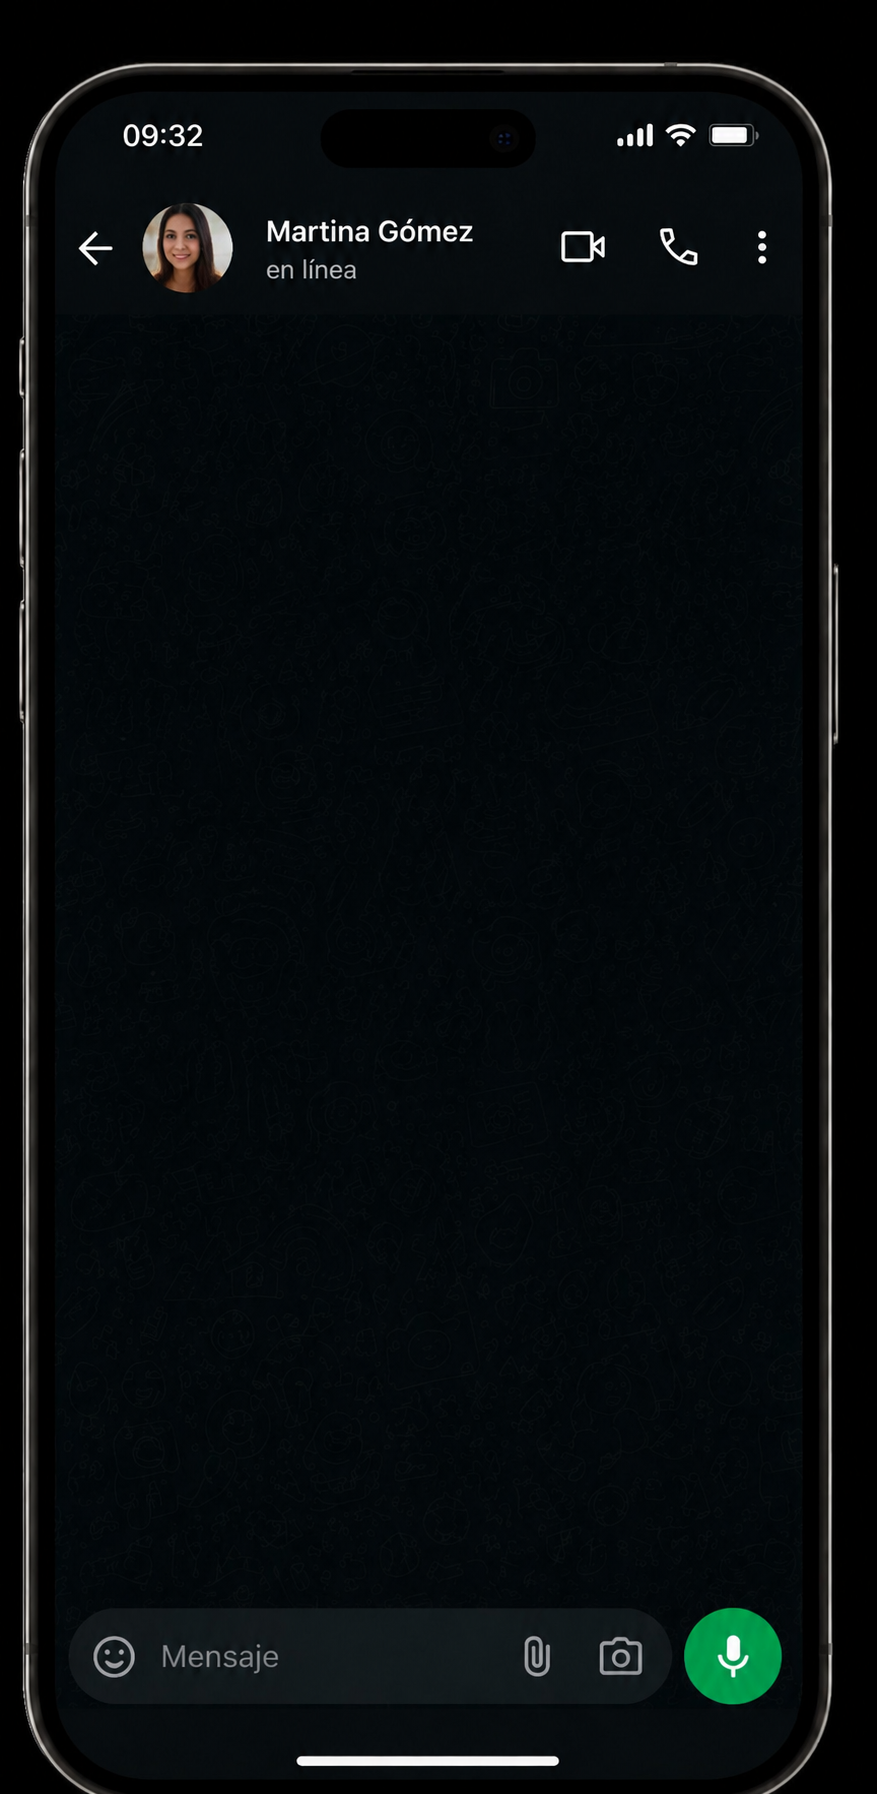
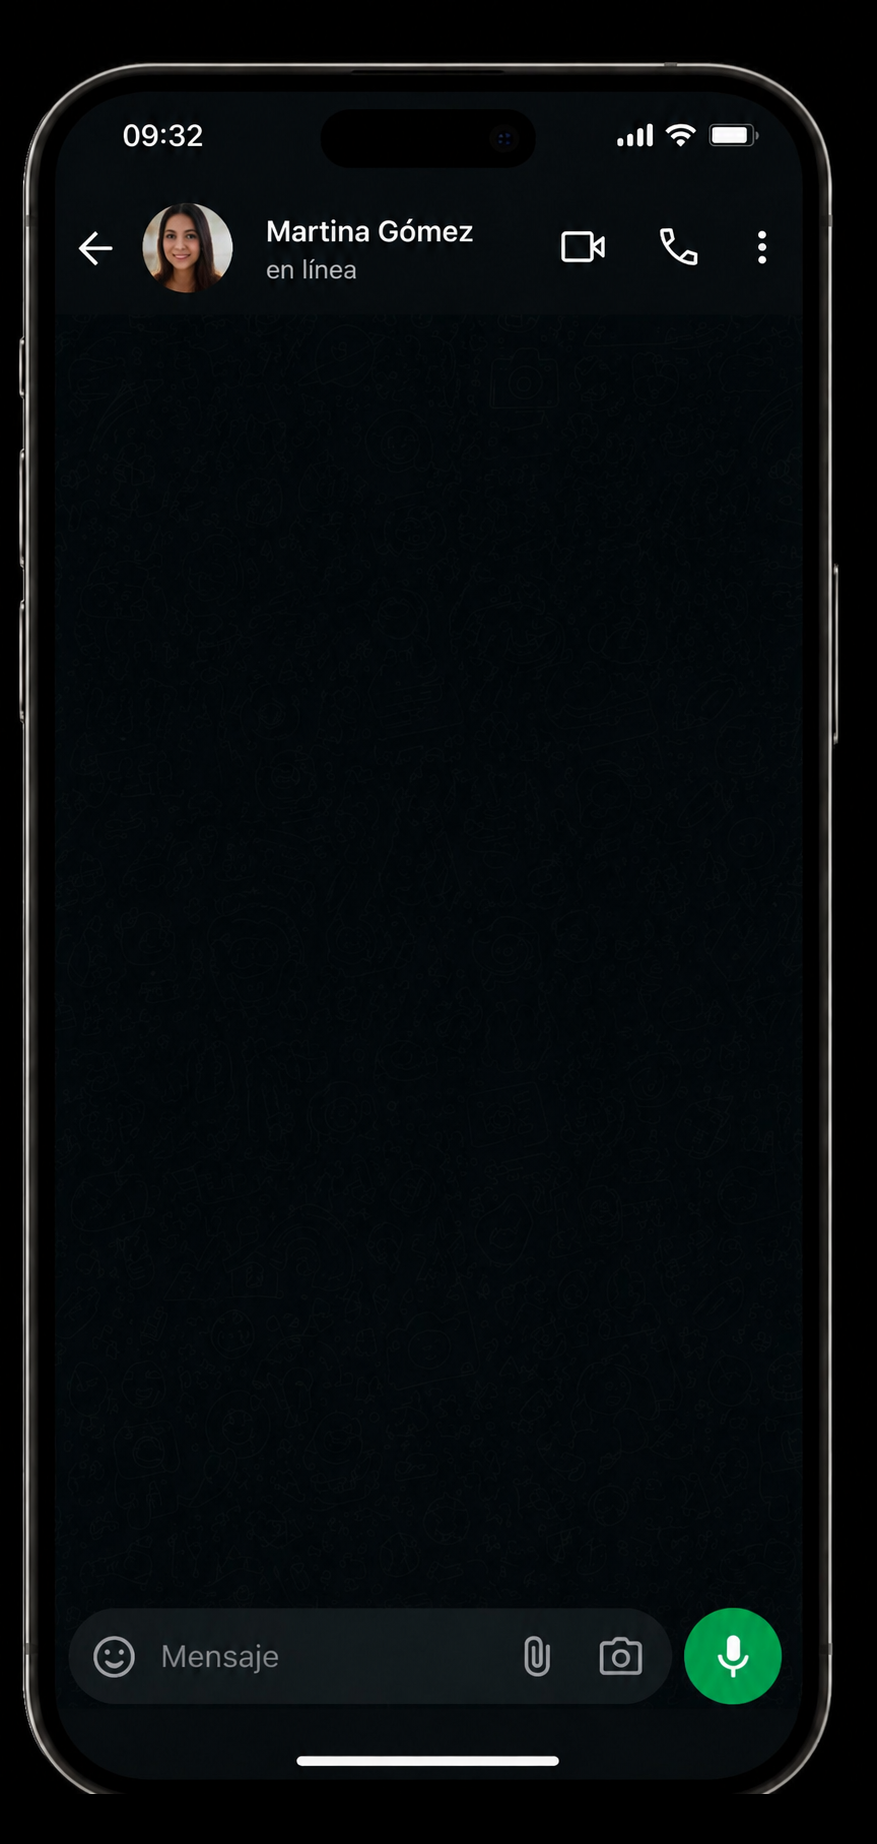
Fix the actual root cause: the source photo's frame was cropped at 0px margin
Finally isolated it — pixel-inspected the reference photo directly and
found both bottom corners of the phone's physical frame touching the
very last row of the image (877x1794), zero margin. That's why no
amount of repositioning/resizing within the scene ever fixed it: the
pixels for a clean margin simply weren't there.

Padded the source PNG with 50px of solid black at the bottom
(877x1844) so the frame has real breathing room, and updated the
scene's imageAspect/chatArea measurements to match (all still measured
from the top, since only rows were added below).

Claude-Session: https://claude.ai/code/session_01JwPsDrd4CvYpow79y6PKM2

diff --git a/src/scenes/WhatsAppScene.tsx b/src/scenes/WhatsAppScene.tsx
@@ -28,17 +28,21 @@ const REPLY_MESSAGE =
 const PICKUP_MESSAGE = "Lo retiro por local, gracias";
 
 const MOCKUP_SRC = staticFile("/mockups/whatsapp-dark-iphone-business.png");
-// Measured from this photo's own pixels (877x1794): header bottom
+// The original photo (877x1794) had the phone's two bottom corners
+// touching the very last pixel row — 0px margin, so the frame read as
+// cropped no matter how this scene was positioned. Padded with 50px of
+// solid black at the bottom (now 877x1844) to give it real breathing
+// room. Measured from the ORIGINAL photo's own pixels: header bottom
 // edge at y≈285, input bar top edge at y≈1600, screen sides at
-// x≈55/802. Re-measure if this reference image is ever swapped.
-const IMAGE_ASPECT = 1794 / 877;
-const CHAT_AREA = { top: "15.9%", bottom: "10.8%", left: "6.3%", right: "8.6%" };
-// This reference photo's own aspect ratio (2.046) is shorter than
-// CatalogRequestScene's (2.162) — at the same `width` the two phones
-// would render at different sizes, this one noticeably smaller with
-// more black space around it (read as "the phone looks cut off"
-// compared to the other scene). Widened so both scenes' phones render
-// at the same on-screen height instead.
+// x≈55/802 — all still valid measured from the top, since only rows
+// were added below. Re-measure if this reference image is ever
+// swapped for an unpadded one.
+const IMAGE_ASPECT = 1844 / 877;
+const CHAT_AREA = { top: "15.5%", bottom: "13.2%", left: "6.3%", right: "8.6%" };
+// This reference photo's phone content is shorter relative to its
+// width than CatalogRequestScene's — at the same `width` the two
+// phones would render at different sizes, this one noticeably smaller.
+// Widened so both scenes' phones render at the same on-screen height.
 const MOCKUP_WIDTH = 803;
 
 // Just the order + confirmation — the earlier catalog-request history
